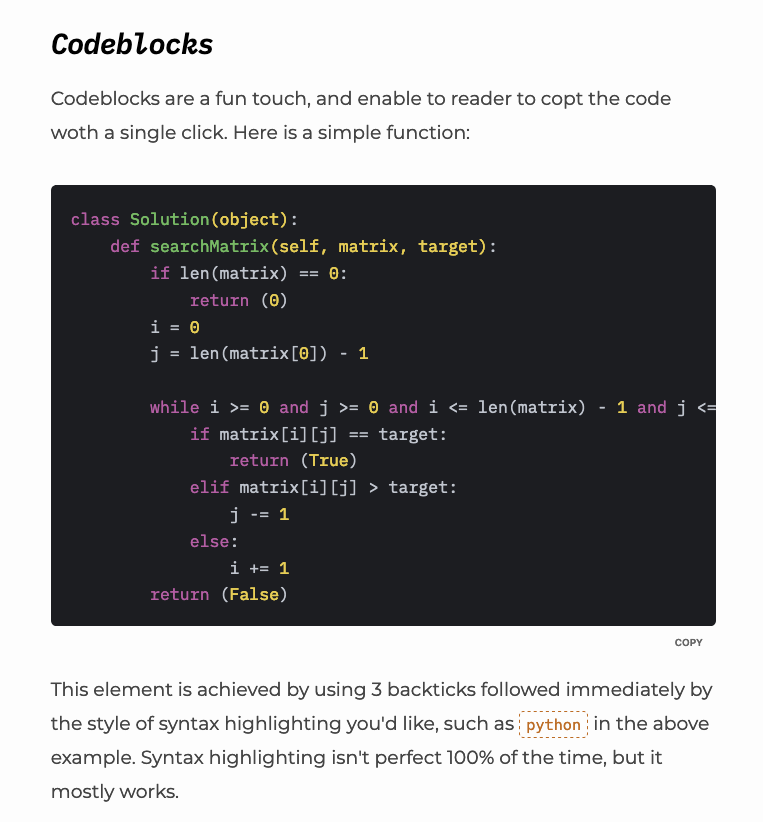
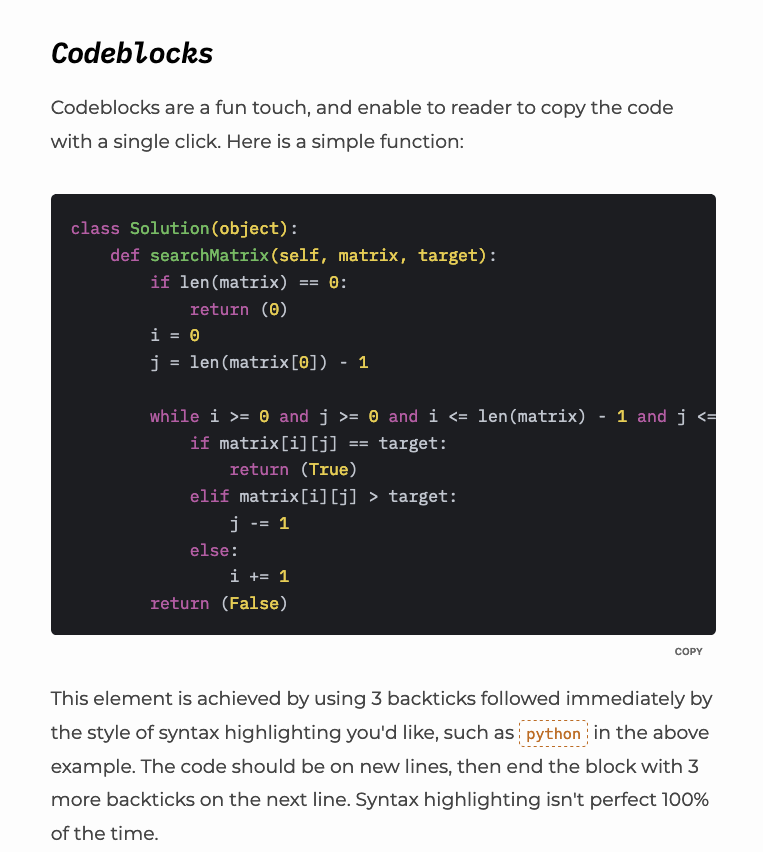
fix video

diff --git a/writings/how-to-use-markdown-with-this-blog-engine.md b/writings/how-to-use-markdown-with-this-blog-engine.md
@@ -16,7 +16,7 @@ letter._
 
 ![How This Page Renders](/md-example.png)
 
-To embed images, you can link to the public folder or an outside url. You don't need a complete path if the image is in the public folder.
+To embed images like the one above, you can link to the public folder or an outside url. You don't need a complete path if the image is in the public folder.
 
 `![Alt Text](/image-in-public-folder.png)`
 
@@ -52,7 +52,7 @@ You can do this on a new line or `inline`.
 
 # Codeblocks
 
-Codeblocks are a fun touch, and enable to reader to copy the code with a single click. Here is a simple function:
+Codeblocks are a fun touch, and enable the reader to copy the code with a single click. Here is a simple function:
 
 
 ```python
@@ -102,7 +102,17 @@ Lists can be made with dashes, asterisks, or numerals.
 
 [![Markdown: syntax basics](http://img.youtube.com/vi/0_tO8HgJiLQ/0.jpg)](http://www.youtube.com/watch?v=0_tO8HgJiLQ "Markdown: syntax basics")
 
-The video above is embedded using an online tool called [Embed Youtube](http://embedyoutube.org/). 
+The video above is embedded using an online tool called [Embed
+YouTube](http://embedyoutube.org/). This makes a static image from the video
+into a linked image to the video itself. 
+
+
+But you can also write html in markdown files and see the results. Below, I've
+pasted the embed `<iframe>` from YouTube.
+
+
+<iframe width="560" height="315" src="https://www.youtube.com/embed/0_tO8HgJiLQ" frameborder="0" allow="accelerometer; autoplay; clipboard-write; encrypted-media; gyroscope; picture-in-picture" allowfullscreen></iframe>
+
 
 # More Markdown Tricks? 
 
